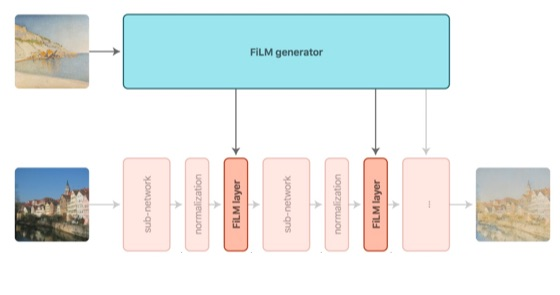
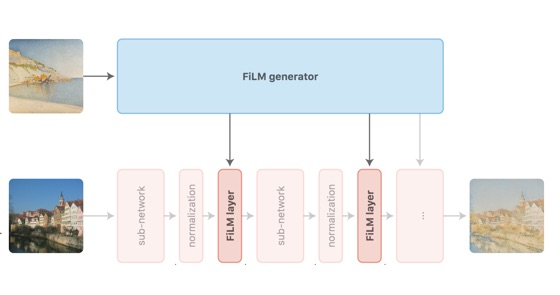
Use less saturated colors in diagrams

diff --git a/static/style.css b/static/style.css
@@ -103,18 +103,27 @@ d-figure > figure {
 }
 
 .figure-film-generator {
-  stroke: #006064;
-  fill: #80DEEA;
+  /* stroke: #006064; */
+  /* fill: #80DEEA; */
+  
+  stroke: hsl(203, 65%, 70%);
+  fill: hsl(203, 65%, 85%);
 }
 
 .figure-film-generator-shaded {
-  stroke: #006064;
-  fill: #00838F;
+  /* stroke: #006064; */
+  /* fill: #00838F; */
+  
+  stroke: hsl(203, 15%, 85%);
+  fill: hsl(203, 15%, 95%);
 }
 
 .figure-filmed-network {
-  stroke: #BF360C;
-  fill: #FFAB91;
+  /* stroke: #BF360C; */
+  /* fill: #FFAB91; */
+  
+  stroke: hsl(11, 65%, 70%);
+  fill: rgb(242, 203, 194);
 }
 
 .todo {
@@ -144,6 +153,8 @@ d-figure > figure {
   color: rgba(0, 0, 0, 0.8);
   padding: 0.5em;
   margin: 0.2em;
+  margin-left: 0;
+  padding-left: 0;
   transform: translateX(0px);
   transition: 
       color 0.1s ease-out,
@@ -158,7 +169,7 @@ d-figure > figure {
       transform 0.25s ease;
 }
 
-.content {
+d-article .content {
   display: none;
   overflow: hidden;
   background-color: none;
